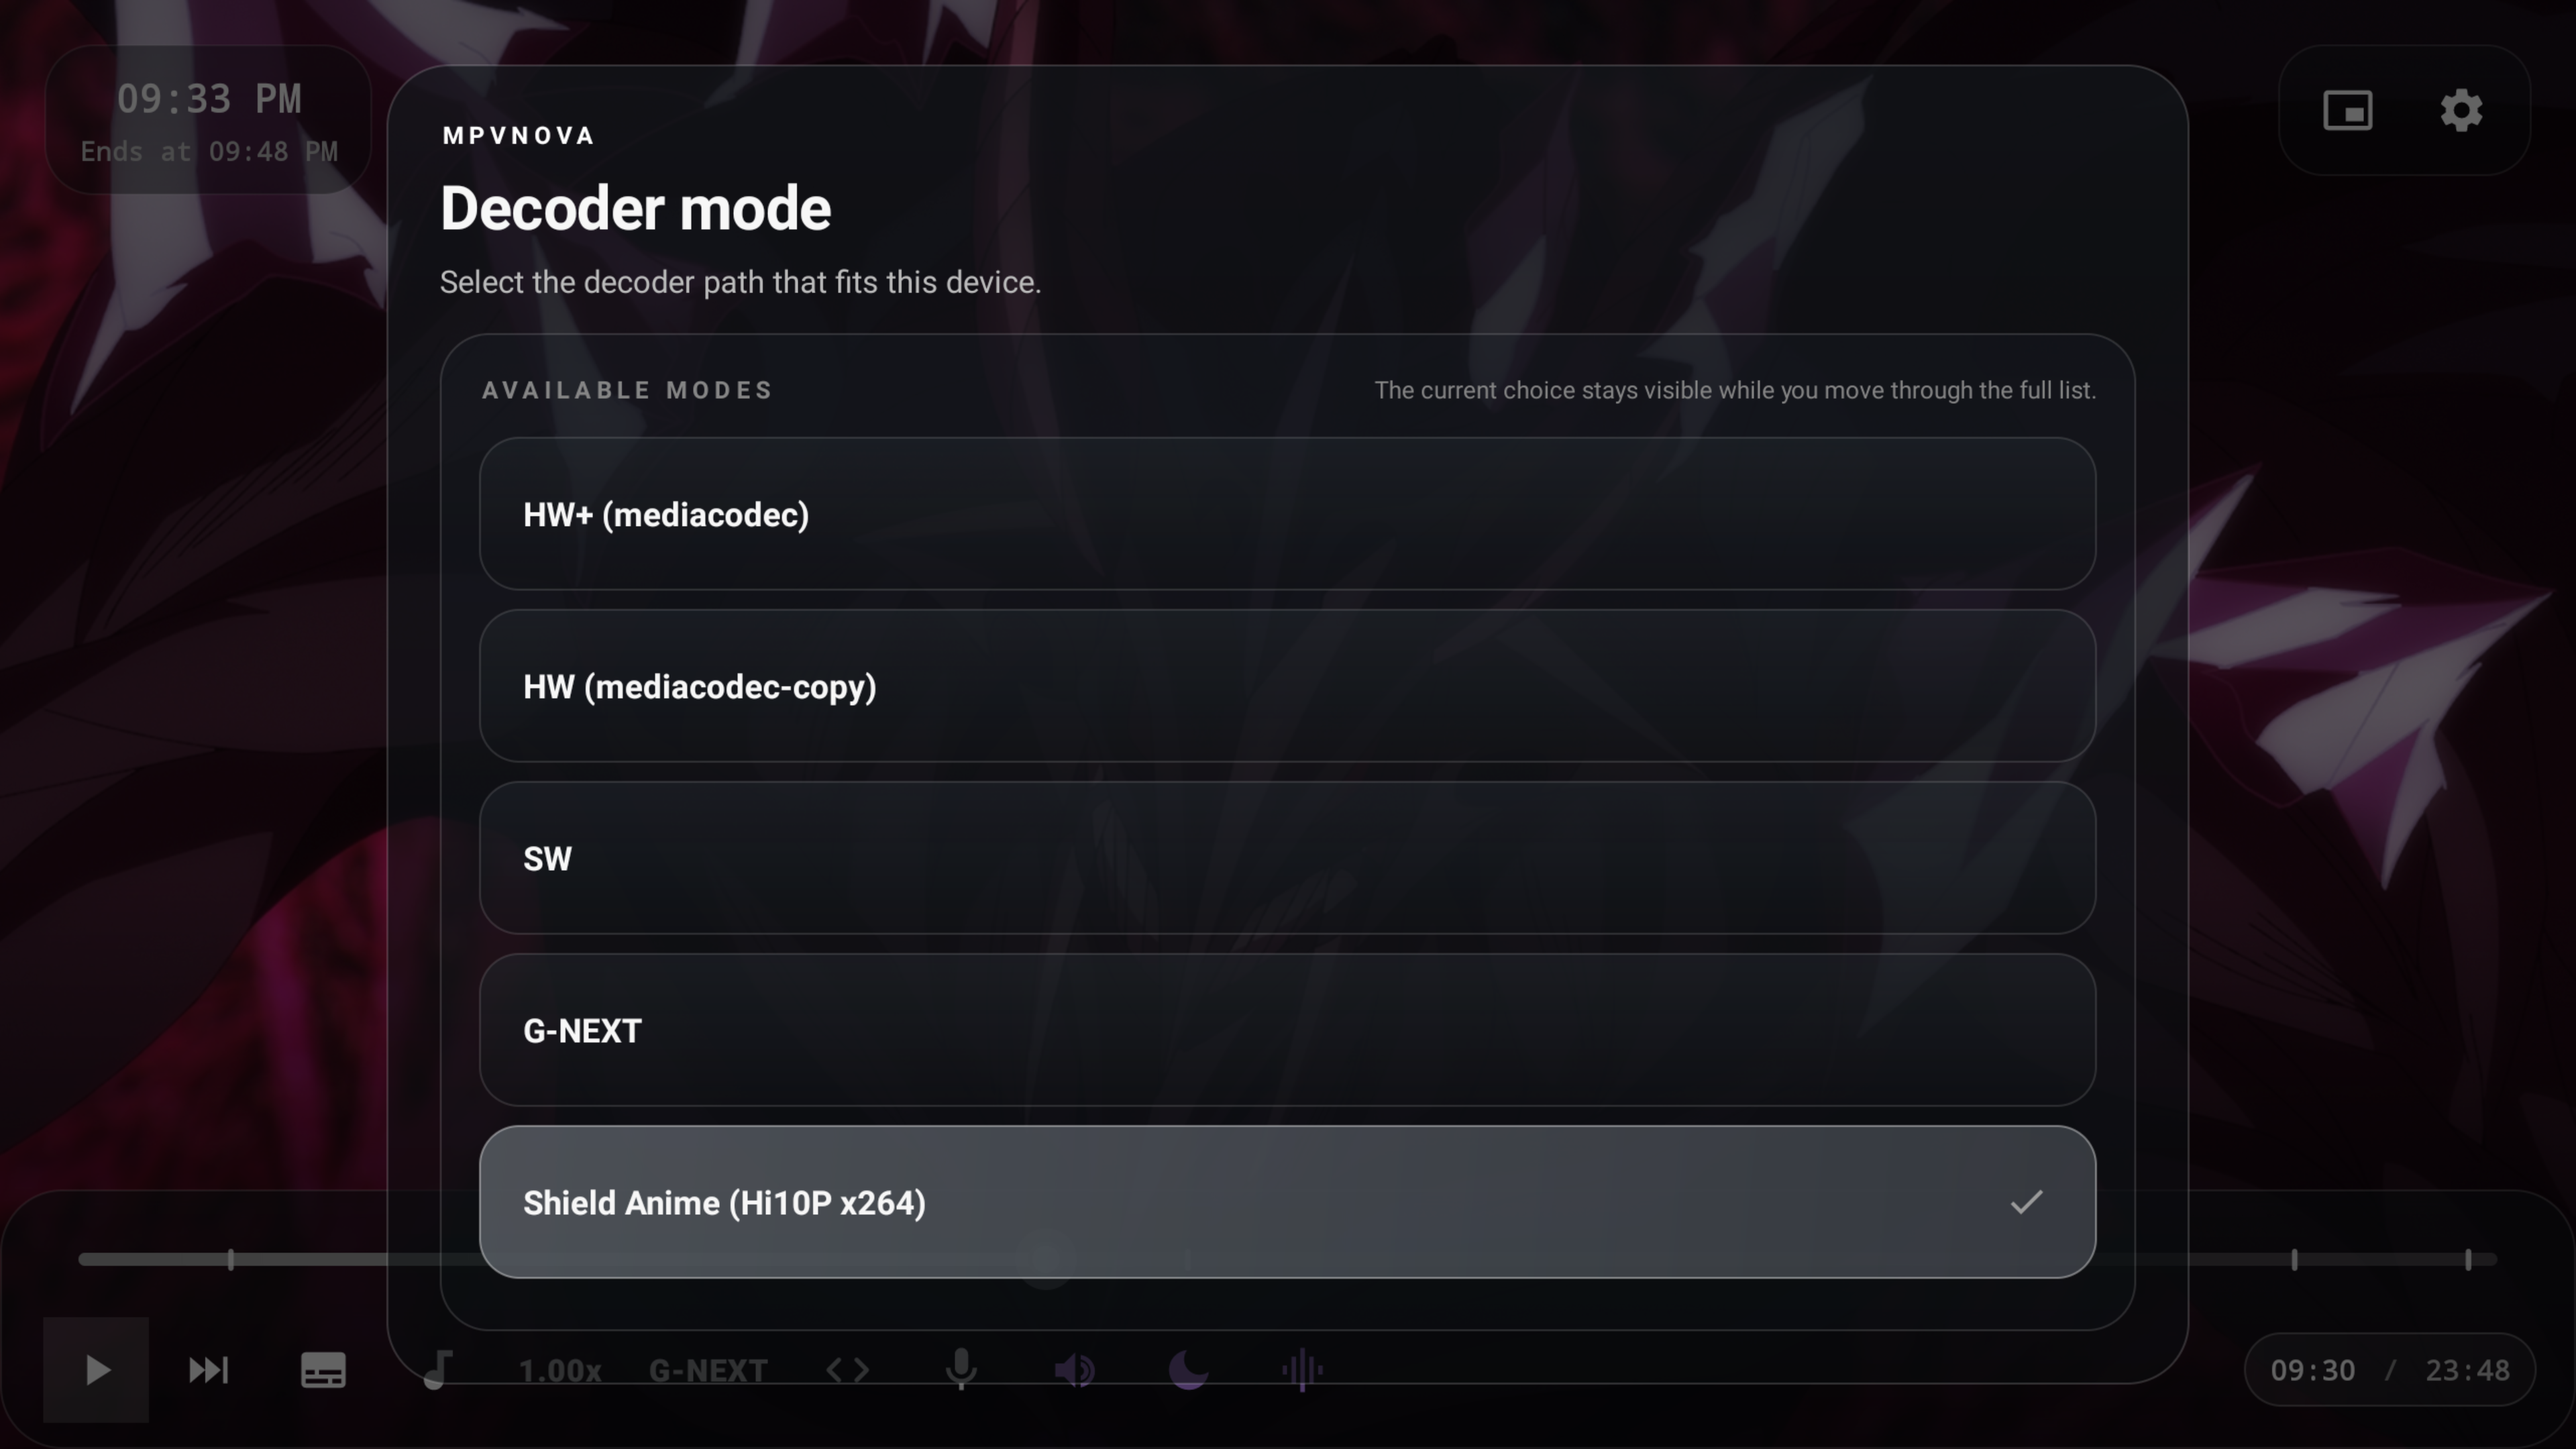
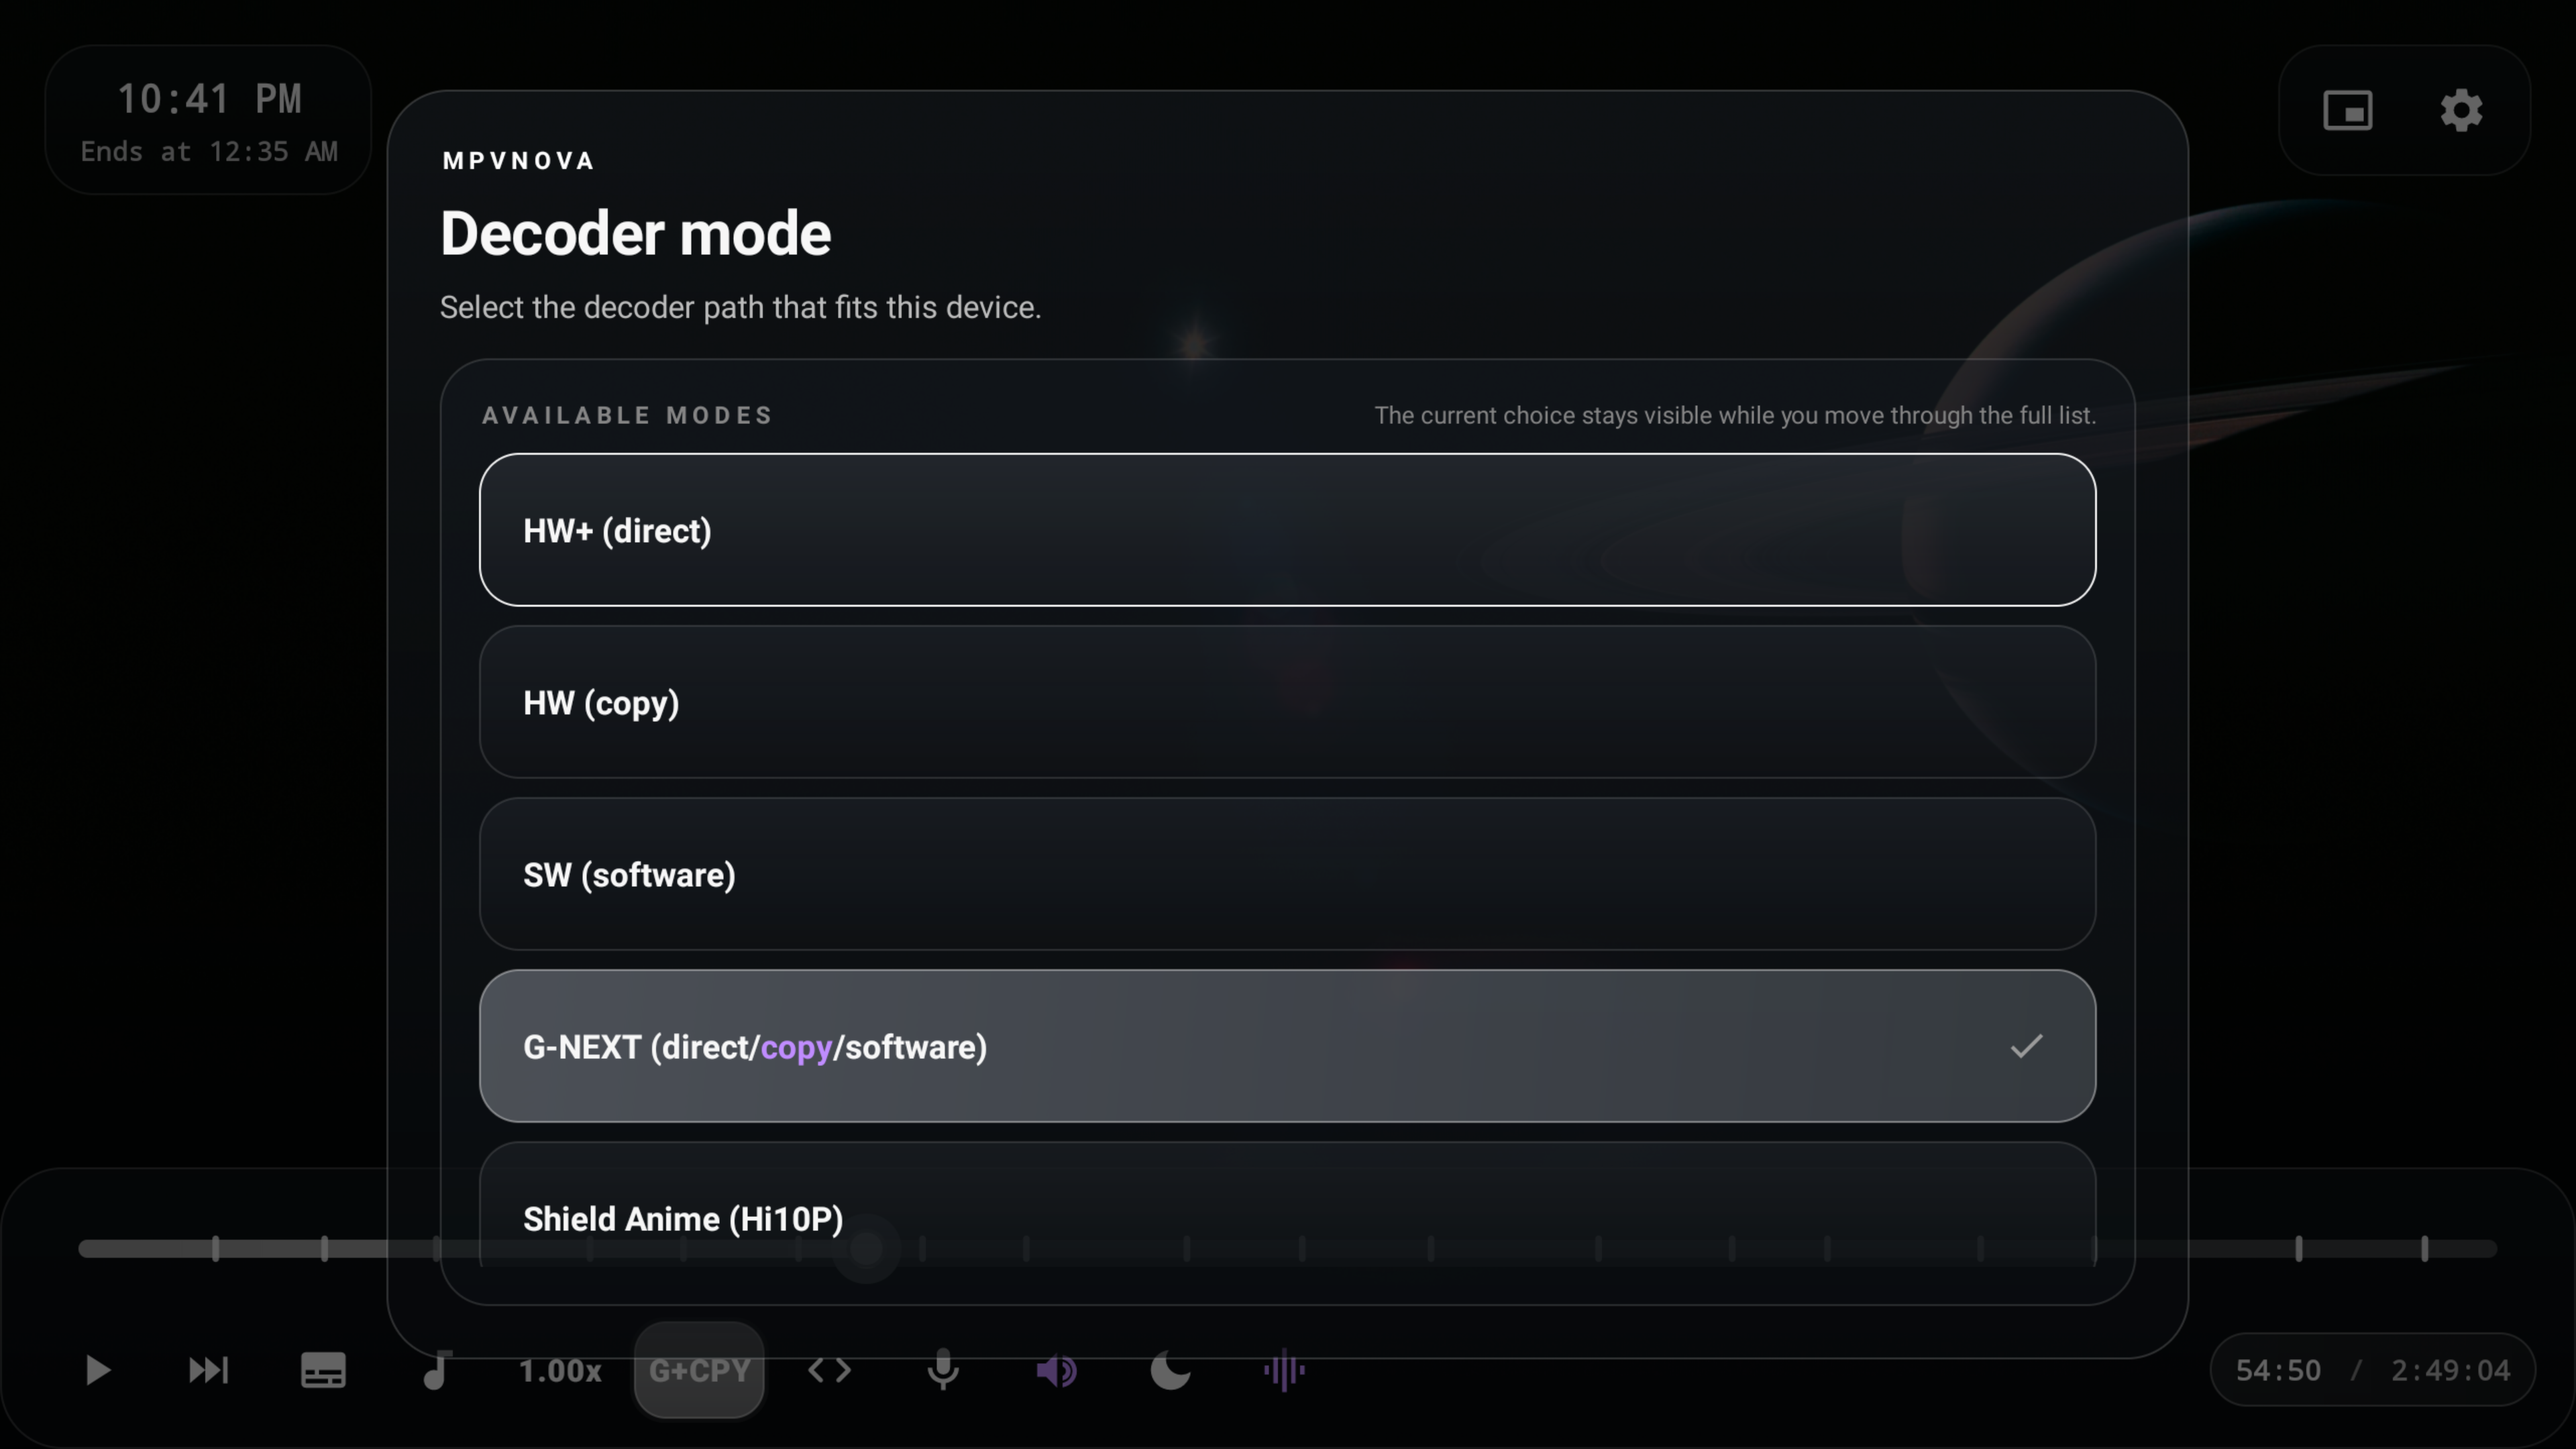
Fix decoder settings list and refresh README screenshots

diff --git a/README.md b/README.md
@@ -21,39 +21,39 @@
 
 ## Showcase
 <div align="center">
-  <img src="docs/screenshots/home-screen.png" alt="mpvNova home screen" width="92%" />
+  <img src="docs/screenshots/home-screen.png" alt="mpvNova home screen" width="96%" />
 </div>
 
 <div align="center">
-  <img src="docs/screenshots/media-library.png" alt="Media library" width="92%" />
+  <img src="docs/screenshots/media-library.png" alt="Media library" width="96%" />
 </div>
 
 <div align="center">
-  <img src="docs/screenshots/player-controls.png" alt="Player controls overlay" width="92%" />
+  <img src="docs/screenshots/player-controls.png" alt="Player UI with updated decoder badge and audio controls" width="96%" />
 </div>
 
 <div align="center">
-  <img src="docs/screenshots/player-audio.png" alt="Audio panel" width="92%" />
+  <img src="docs/screenshots/player-audio.png" alt="Audio panel" width="96%" />
 </div>
 
 <div align="center">
-  <img src="docs/screenshots/player-subtitles.png" alt="Subtitle panel" width="92%" />
+  <img src="docs/screenshots/player-subtitles.png" alt="Subtitle panel" width="96%" />
 </div>
 
 <div align="center">
-  <img src="docs/screenshots/player-decoder-mode.png" alt="Decoder picker" width="92%" />
+  <img src="docs/screenshots/player-decoder-mode.png" alt="Decoder picker with live gpu-next path highlight" width="96%" />
 </div>
 
 <div align="center">
-  <img src="docs/screenshots/settings-overview.png" alt="Settings overview" width="92%" />
+  <img src="docs/screenshots/settings-overview.png" alt="Settings overview" width="96%" />
 </div>
 
 <div align="center">
-  <img src="docs/screenshots/settings-decoder-mode-dialog.png" alt="Decoder settings dialog" width="92%" />
+  <img src="docs/screenshots/settings-decoder-mode-dialog.png" alt="Preferred decoder mode settings dialog" width="96%" />
 </div>
 
 <div align="center">
-  <img src="docs/screenshots/player-stats-overlay.png" alt="Playback stats overlay" width="92%" />
+  <img src="docs/screenshots/player-stats-overlay.png" alt="Playback stats overlay" width="96%" />
 </div>
 
 ---
